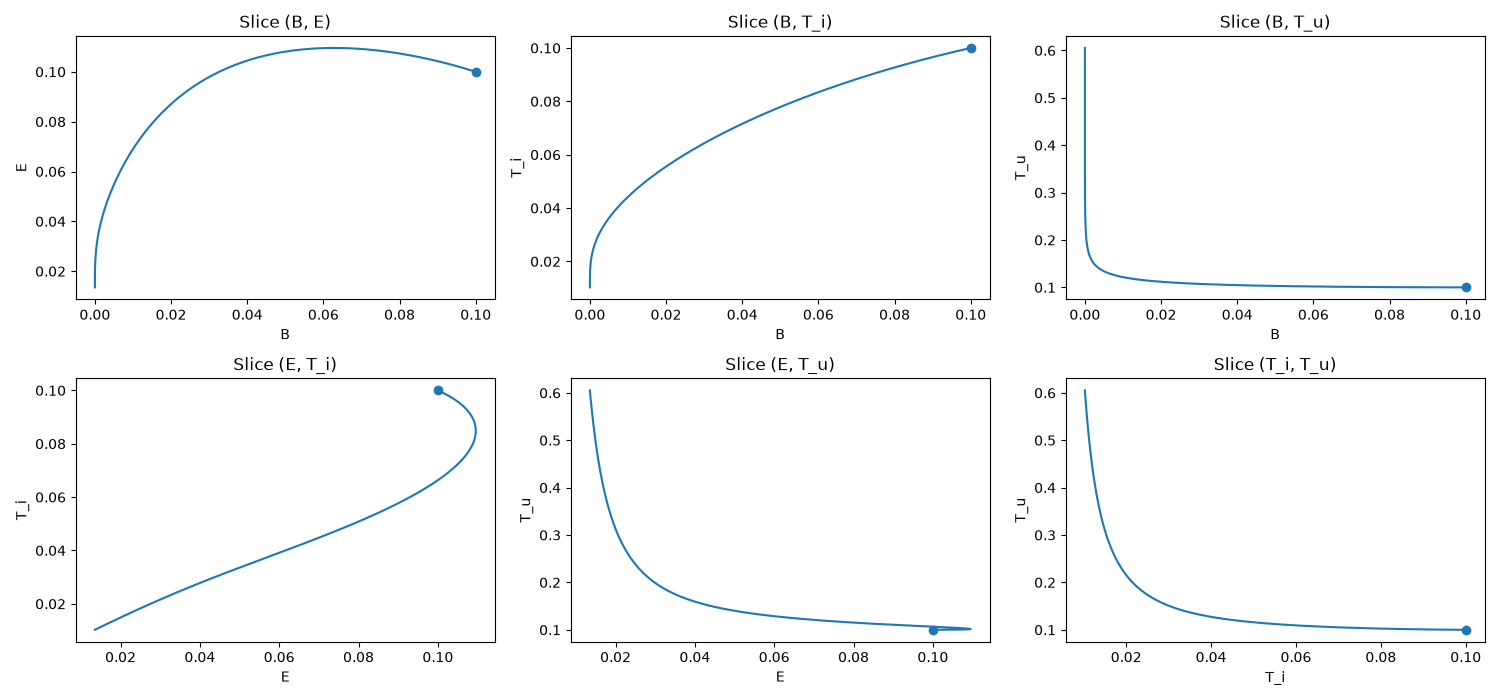
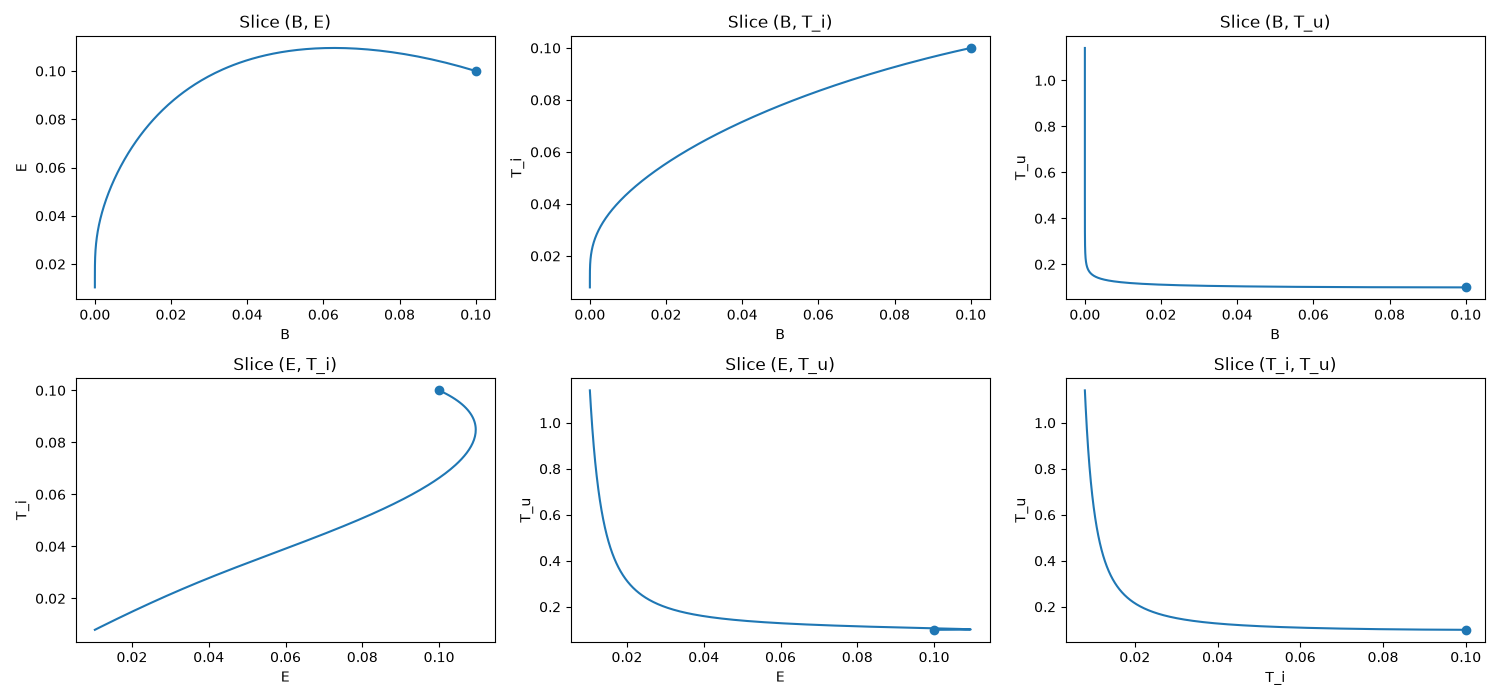
updated for new equations, added spread of y0s

diff --git a/graphing/seconddraftmodelplottingmany.py b/graphing/seconddraftmodelplottingmany.py
@@ -1,0 +1,86 @@
+import numpy as np
+from scipy.integrate import solve_ivp
+import matplotlib.pyplot as plt
+
+#constants/other functions
+p1=1.25
+p2=0.285
+mu1=0.1
+b=0.0011
+mu2=0.41
+alpha=0.52
+p4=0.12
+B=0.011
+delta=1/B
+d=1
+def p5(t):
+    return 0.003
+p3=1.1
+r=0.032
+b=0
+#CHANGE THIS WHEN CORRECT VALUE IS FOUND:
+c=1
+
+def system(t, y):
+    x1, x2, x3, x4 = y
+    dx1 =-p1*x2*x1-p2*x1*x4-mu1*x1+b
+    dx2 = -mu2*x2+alpha*x3+p4*x2*x1-p5(t)*x2*x3
+    dx3 = p2*x1*x4-p3*x3*x2
+    dx4 = -p2*x1*x4+x4*(b-c*np.log(x4/delta))
+    return [dx1, dx2, dx3, dx4]
+
+t_span = (0, 80)
+t_eval = np.linspace(*t_span, 2000)
+y0s=[]
+poss=[0,0.5,1]
+for i in poss:
+    for j in poss:
+        for k in poss:
+            for l in [0.5,1]:
+                y0s.append([i,j,k,l])
+print("calculating...")
+sol=[]
+for i in y0s:
+    sol.append(solve_ivp(system, t_span, i, t_eval=t_eval, rtol=1e-8))
+print('done')
+fig, axes = plt.subplots(ncols=3,nrows=2, figsize=(15, 7))
+for i in range(len(sol)):
+    axes[0,0].scatter(y0s[i][0],y0s[i][1])
+    axes[0,0].scatter(sol[i].y[0][-1],sol[i].y[1][-1],s=100)
+    axes[0,0].plot(sol[i].y[0], sol[i].y[1])     
+axes[0,0].set_xlabel('B'); axes[0,0].set_ylabel('E'); axes[0,0].set_title('Slice (B, E)')
+
+
+for i in range(len(sol)):
+    axes[0,1].scatter(y0s[i][0],y0s[i][2])
+    axes[0,1].scatter(sol[i].y[0][-1],sol[i].y[2][-1],s=100)
+    axes[0,1].plot(sol[i].y[0], sol[i].y[2])       
+axes[0,1].set_xlabel('B'); axes[0,1].set_ylabel('T_i'); axes[0,1].set_title('Slice (B, T_i)')
+
+
+for i in range(len(sol)):
+    axes[0,2].scatter(y0s[i][0],y0s[i][3])
+    axes[0,2].scatter(sol[i].y[0][-1],sol[i].y[3][-1],s=100)
+    axes[0,2].plot(sol[i].y[0], sol[i].y[3])         
+axes[0,2].set_xlabel('B'); axes[0,2].set_ylabel('T_u'); axes[0,2].set_title('Slice (B, T_u)')
+
+for i in range(len(sol)):
+    axes[1,0].scatter(y0s[i][1],y0s[i][2])
+    axes[1,0].scatter(sol[i].y[1][-1],sol[i].y[2][-1],s=100)
+    axes[1,0].plot(sol[i].y[1], sol[i].y[2])        
+axes[1,0].set_xlabel('E'); axes[1,0].set_ylabel('T_i'); axes[1,0].set_title('Slice (E, T_i)')
+
+for i in range(len(sol)):
+    axes[1,1].scatter(y0s[i][1],y0s[i][3])
+    axes[1,1].scatter(sol[i].y[1][-1],sol[i].y[3][-1],s=100)
+    axes[1,1].plot(sol[i].y[1], sol[i].y[3])     
+axes[1,1].set_xlabel('E'); axes[1,1].set_ylabel('T_u'); axes[1,1].set_title('Slice (E, T_u)')
+
+for i in range(len(sol)):
+    axes[1,2].scatter(y0s[i][2],y0s[i][3])
+    axes[1,2].scatter(sol[i].y[2][-1],sol[i].y[3][-1],s=100)
+    axes[1,2].plot(sol[i].y[2], sol[i].y[3])     
+axes[1,2].set_xlabel('T_i'); axes[1,2].set_ylabel('T_u'); axes[1,2].set_title('Slice (T_i, T_u)')
+
+plt.tight_layout(); 
+plt.savefig("seconddraftmanyfig.png")

diff --git a/graphing/bunimovich-mendrazitskyplottingmany.py b/graphing/bunimovich-mendrazitskyplottingmany.py
@@ -1,0 +1,84 @@
+import numpy as np
+from scipy.integrate import solve_ivp
+import matplotlib.pyplot as plt
+
+#constants/other functions
+p1=1.25
+p2=0.285
+mu1=0.1
+b=0.0011
+mu2=0.41
+alpha=0.52
+p4=0.12
+B=0.011
+b=0
+def p5(t):
+    return 0.003
+p3=1.1
+r=0.032
+
+
+def system(t, y):
+    x1, x2, x3, x4 = y
+    dx1 =-p1*x2*x1-p2*x1*x4-mu1*x1+b
+    dx2 = -mu2*x2+alpha*x3+p4*x2*x1-p5(t)*x2*x3
+    dx3 = p2*x1*x4-p3*x3*x2
+    dx4 = r*(1-B*x4)*x4-p2*x1*x4
+    return [dx1, dx2, dx3, dx4]
+
+t_span = (0, 80)
+t_eval = np.linspace(*t_span, 10000)
+y0s=[]
+poss=[0,0.5,1]
+for i in poss:
+    for j in poss:
+        for k in poss:
+            for l in poss:
+                y0s.append([i,j,k,l])
+print("calculating...")
+sol=[]
+for i in y0s:
+    sol.append(solve_ivp(system, t_span, i, t_eval=t_eval, rtol=1e-8))
+print('done')
+fig, axes = plt.subplots(ncols=3,nrows=2, figsize=(15, 7))
+for i in range(len(sol)):
+    axes[0,0].scatter(y0s[i][0],y0s[i][1])
+    axes[0,0].scatter(sol[i].y[0][-1],sol[i].y[1][-1],s=100)
+    axes[0,0].plot(sol[i].y[0], sol[i].y[1])     
+axes[0,0].set_xlabel('B'); axes[0,0].set_ylabel('E'); axes[0,0].set_title('Slice (B, E)')
+
+
+for i in range(len(sol)):
+    axes[0,1].scatter(y0s[i][0],y0s[i][2])
+    axes[0,1].scatter(sol[i].y[0][-1],sol[i].y[2][-1],s=100)
+    axes[0,1].plot(sol[i].y[0], sol[i].y[2])       
+axes[0,1].set_xlabel('B'); axes[0,1].set_ylabel('T_i'); axes[0,1].set_title('Slice (B, T_i)')
+
+
+for i in range(len(sol)):
+    axes[0,2].scatter(y0s[i][0],y0s[i][3])
+    axes[0,2].scatter(sol[i].y[0][-1],sol[i].y[3][-1],s=100)
+    axes[0,2].plot(sol[i].y[0], sol[i].y[3])         
+axes[0,2].set_xlabel('B'); axes[0,2].set_ylabel('T_u'); axes[0,2].set_title('Slice (B, T_u)')
+
+for i in range(len(sol)):
+    axes[1,0].scatter(y0s[i][1],y0s[i][2])
+    axes[1,0].scatter(sol[i].y[1][-1],sol[i].y[2][-1],s=100)
+    axes[1,0].plot(sol[i].y[1], sol[i].y[2])        
+axes[1,0].set_xlabel('E'); axes[1,0].set_ylabel('T_i'); axes[1,0].set_title('Slice (E, T_i)')
+
+for i in range(len(sol)):
+    axes[1,1].scatter(y0s[i][1],y0s[i][3])
+    axes[1,1].scatter(sol[i].y[1][-1],sol[i].y[3][-1],s=100)
+    axes[1,1].plot(sol[i].y[1], sol[i].y[3])     
+axes[1,1].set_xlabel('E'); axes[1,1].set_ylabel('T_u'); axes[1,1].set_title('Slice (E, T_u)')
+
+for i in range(len(sol)):
+    axes[1,2].scatter(y0s[i][2],y0s[i][3])
+    axes[1,2].scatter(sol[i].y[2][-1],sol[i].y[3][-1],s=100)
+    axes[1,2].plot(sol[i].y[2], sol[i].y[3])     
+axes[1,2].set_xlabel('T_i'); axes[1,2].set_ylabel('T_u'); axes[1,2].set_title('Slice (T_i, T_u)')
+
+
+plt.tight_layout(); 
+plt.savefig("bunimovich-mendrazitskymanyfig.png")

diff --git a/graphing/seconddraftmodelplotting.py b/graphing/seconddraftmodelplotting.py
@@ -1,0 +1,64 @@
+import numpy as np
+from scipy.integrate import solve_ivp
+import matplotlib.pyplot as plt
+
+#constants/other functions
+p1=1.25
+p2=0.285
+mu1=0.1
+b=0.0011
+mu2=0.41
+alpha=0.52
+p4=0.12
+B=0.011
+delta=1/B
+d=1
+def p5(t):
+    return 0.003
+p3=1.1
+r=0.032
+b=0
+#CHANGE THIS WHEN CORRECT VALUE IS FOUND:
+c=1
+
+def system(t, y):
+    x1, x2, x3, x4 = y
+    dx1 =-p1*x2*x1-p2*x1*x4-mu1*x1+b
+    dx2 = -mu2*x2+alpha*x3+p4*x2*x1-p5(t)*x2*x3
+    dx3 = p2*x1*x4-p3*x3*x2
+    dx4 = -p2*x1*x4+x4*(b-c*np.log(x4/delta))
+    return [dx1, dx2, dx3, dx4]
+
+t_span = (0, 80)
+t_eval = np.linspace(*t_span, 1000)
+y0 = [.1, .1, .1, .1]
+print("here1")
+sol = solve_ivp(system, t_span, y0, t_eval=t_eval, rtol=1e-8)
+print('here2')
+fig, axes = plt.subplots(ncols=3,nrows=2, figsize=(15, 7))
+axes[0,0].scatter(y0[0],y0[1])
+axes[0,0].plot(sol.y[0], sol.y[1])     
+axes[0,0].set_xlabel('B'); axes[0,0].set_ylabel('E'); axes[0,0].set_title('Slice (B, E)')
+
+axes[0,1].scatter(y0[0],y0[2])
+axes[0,1].plot(sol.y[0], sol.y[2])      
+axes[0,1].set_xlabel('B'); axes[0,1].set_ylabel('T_i'); axes[0,1].set_title('Slice (B, T_i)')
+
+axes[0,2].scatter(y0[0],y0[3])
+axes[0,2].plot(sol.y[0], sol.y[3])     
+axes[0,2].set_xlabel('B'); axes[0,2].set_ylabel('T_u'); axes[0,2].set_title('Slice (B, T_u)')
+
+axes[1,0].scatter(y0[1],y0[2])
+axes[1,0].plot(sol.y[1], sol.y[2])       
+axes[1,0].set_xlabel('E'); axes[1,0].set_ylabel('T_i'); axes[1,0].set_title('Slice (E, T_i)')
+
+axes[1,1].scatter(y0[1],y0[3])
+axes[1,1].plot(sol.y[1], sol.y[3])       
+axes[1,1].set_xlabel('E'); axes[1,1].set_ylabel('T_u'); axes[1,1].set_title('Slice (E, T_u)')
+
+axes[1,2].scatter(y0[2],y0[3])
+axes[1,2].plot(sol.y[2], sol.y[3])       
+axes[1,2].set_xlabel('T_i'); axes[1,2].set_ylabel('T_u'); axes[1,2].set_title('Slice (T_i, T_u)')
+
+plt.tight_layout(); 
+plt.savefig("seconddraftfig.png")

diff --git a/graphing/bunimovich-mendrazitskyplotting.py b/graphing/bunimovich-mendrazitskyplotting.py
@@ -26,7 +26,7 @@ def system(t, y):
     dx4 = r*(1-B*x4)*x4-p2*x1*x4
     return [dx1, dx2, dx3, dx4]
 
-t_span = (0, 60)
+t_span = (0, 80)
 t_eval = np.linspace(*t_span, 1000)
 y0 = [.1, .1, .1, .1]
 print("here1")
